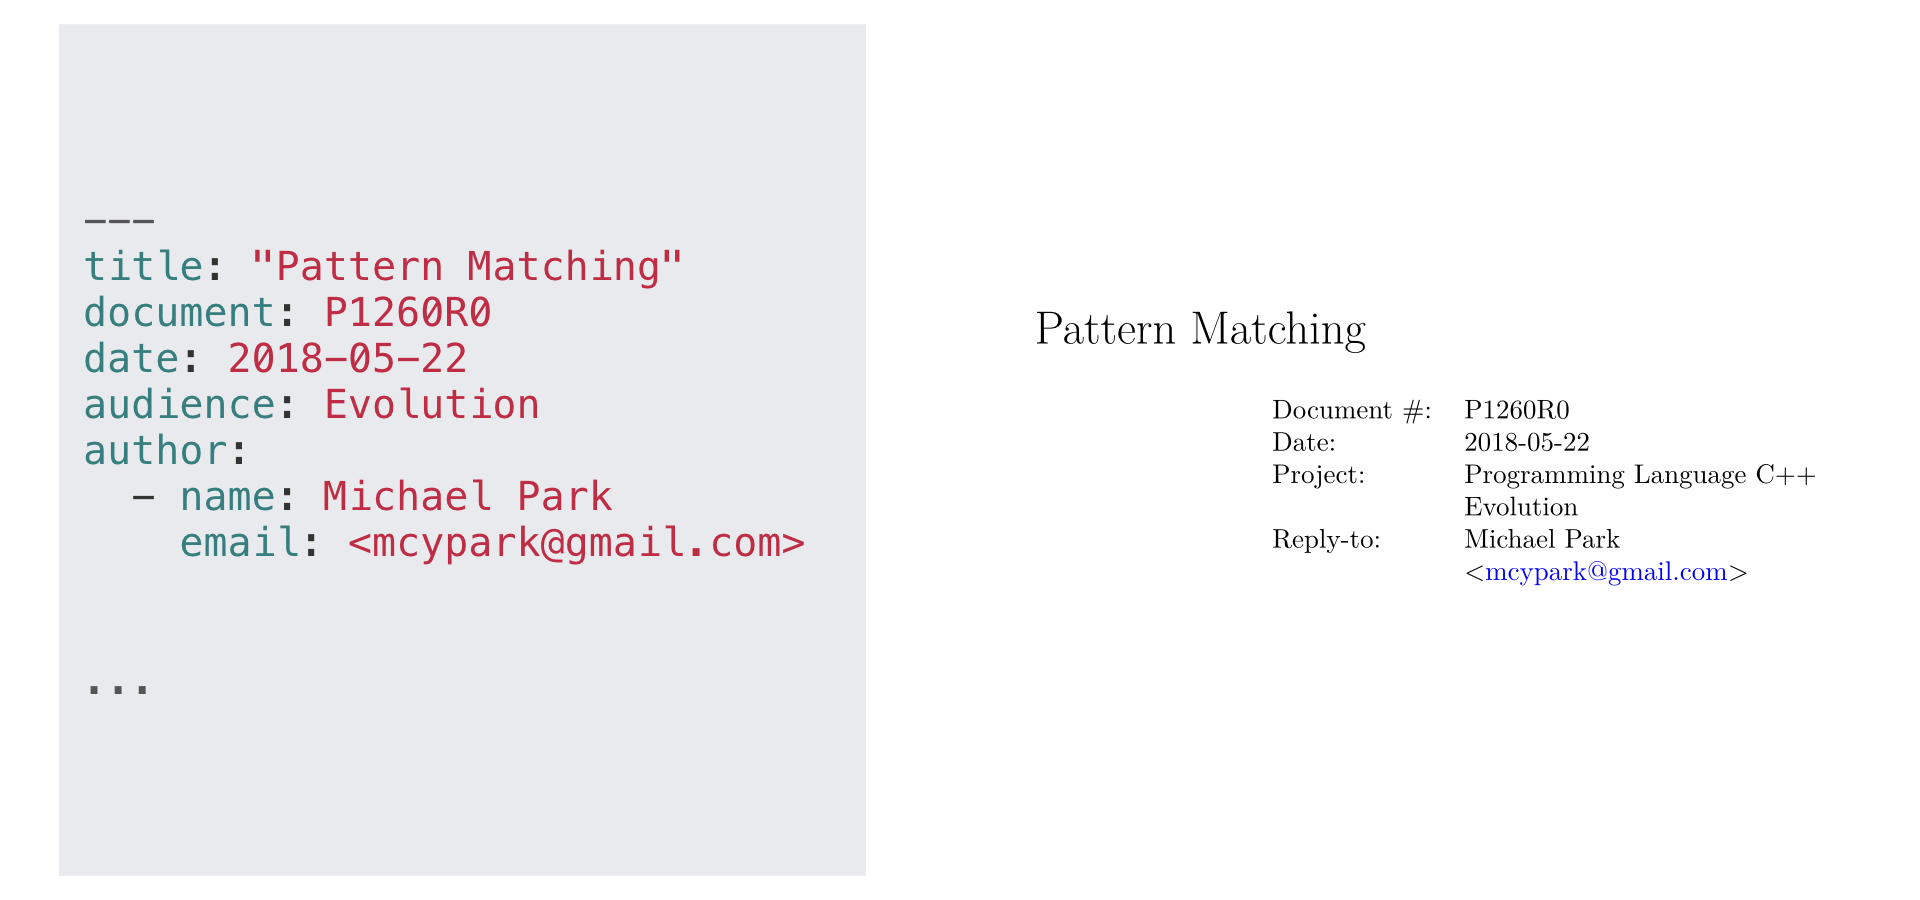
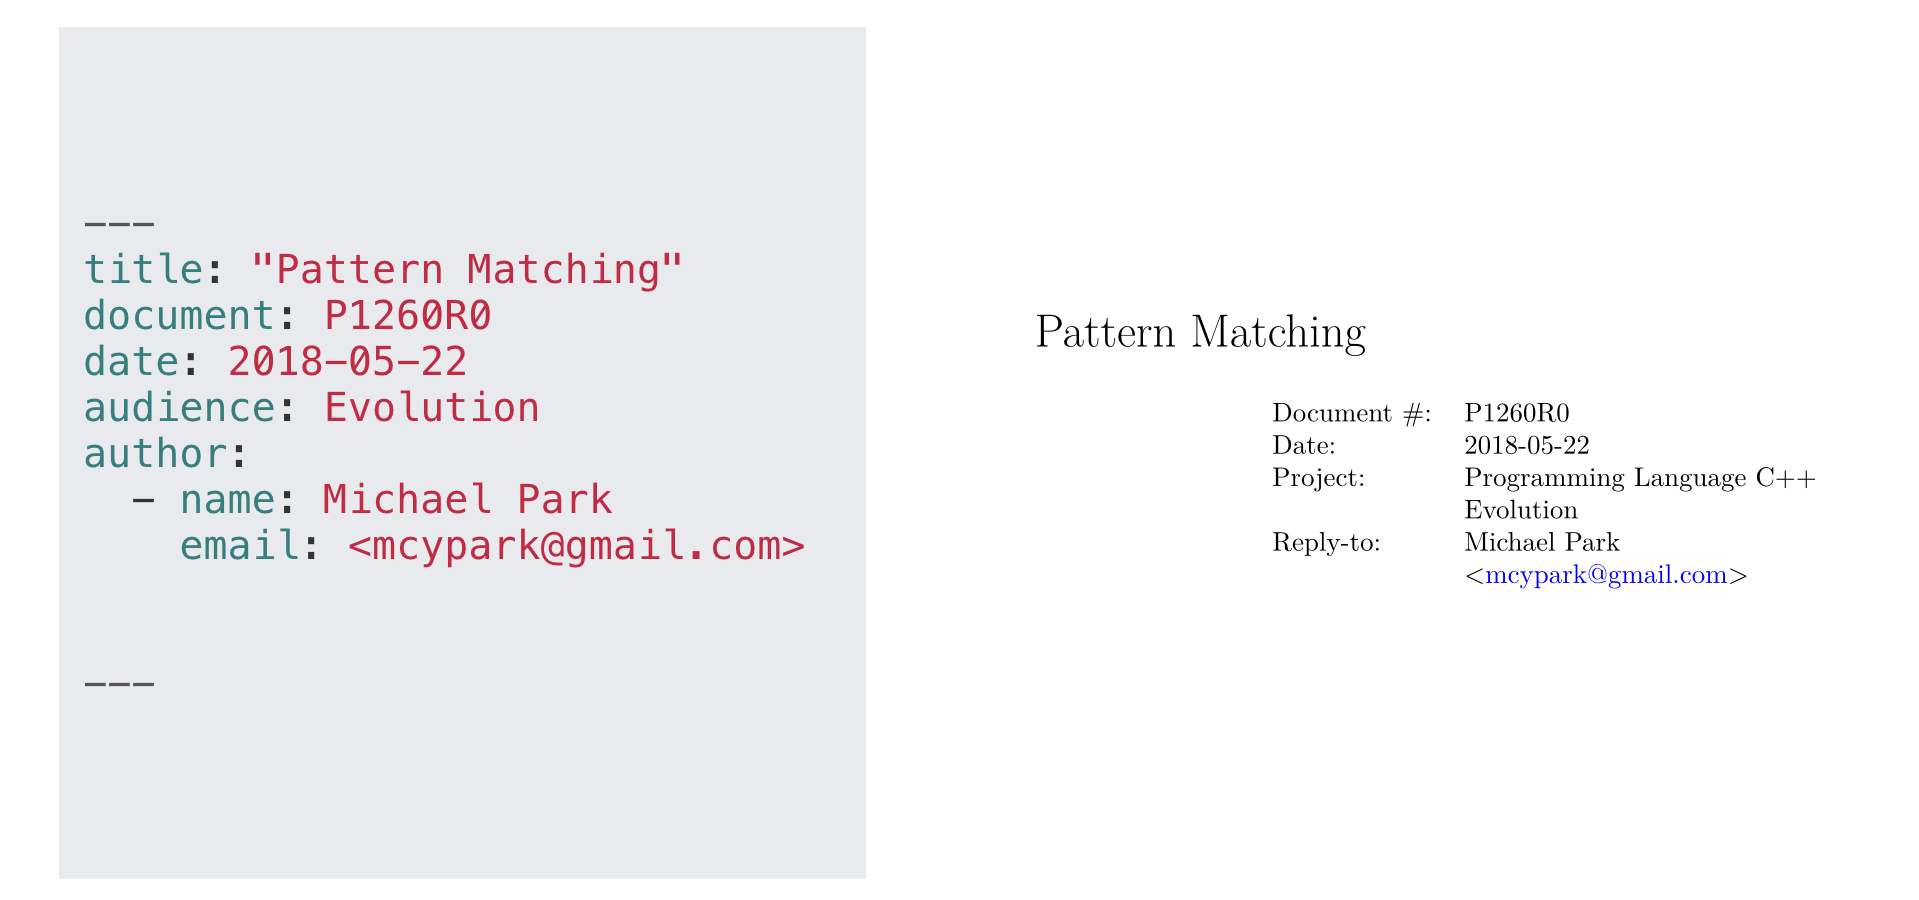
Reverted YAML ending in `...` to `---` since Github doesn't handle it properly.

diff --git a/README.md b/README.md
@@ -88,7 +88,7 @@ author:
     email: <dani@ngrt.de>
   - name: Howard E. Hinnant
     email: <howard.hinnant@gmail.com>
-...
+---
 ```
 
 ### Table of Contents
@@ -324,7 +324,7 @@ references:
       - family: Park
         given: Michael
     URL: https://github.com/mpark/patterns
-...
+---
 ```
 
 ![](img/manual-reference.png)

diff --git a/P1371R0.md b/P1371R0.md
@@ -14,7 +14,7 @@ author:
     email: <dsarginson@bloomberg.net>
 toc: true
 toc-depth: 4
-...
+---
 
 \pagebreak
 
@@ -1778,4 +1778,4 @@ references:
     citation-label : Swift Patterns
     title : "Swift Reference Manual - Patterns"
     URL: https://docs.swift.org/swift-book/ReferenceManual/Patterns.html
-...
+---

diff --git a/P0655R0.md b/P0655R0.md
@@ -9,7 +9,7 @@ author:
   - name: Agustín Bergé
     email: <agustinberge@gmail.com>
 toc: false
-...
+---
 
 # Introduction
 
@@ -160,4 +160,4 @@ references:
     issued:
       year: 2017
     URL: http://www.open-std.org/jtc1/sc22/wg21/docs/papers/2017/n4687.pdf
-...
+---

diff --git a/P0655R1.md b/P0655R1.md
@@ -9,7 +9,7 @@ author:
   - name: Agustín Bergé
     email: <agustinberge@gmail.com>
 toc: false
-...
+---
 
 # Introduction
 
@@ -173,4 +173,4 @@ references:
     issued:
       year: 2018
     URL: http://www.open-std.org/jtc1/sc22/wg21/docs/papers/2018/n4762.pdf
-...
+---

diff --git a/N3887.md b/N3887.md
@@ -7,7 +7,7 @@ author:
   - name: Michael Park
     email: <mcypark@gmail.com>
 toc: false
-...
+---
 
 # Introduction
 
@@ -203,4 +203,4 @@ references:
     issued:
       year: 2013
     URL: http://www.open-std.org/jtc1/sc22/wg21/docs/papers/2013/n3797.pdf
-...
+---

diff --git a/P1260R0.md b/P1260R0.md
@@ -7,7 +7,7 @@ author:
   - name: Michael Park
     email: <mcypark@gmail.com>
 toc: true
-...
+---
 
 # Introduction
 
@@ -1044,4 +1044,4 @@ references:
       - family: Bandela
         given: John
     URL: https://github.com/jbandela/simple_match
-...
+---

diff --git a/D1469R1.md b/D1469R1.md
@@ -14,7 +14,7 @@ author:
     email: <dsarginson@bloomberg.net>
 toc: true
 toc-depth: 4
-...
+---
 
 # Introduction
 
@@ -155,4 +155,4 @@ references:
       - family: Tomazos
         given: Andrew
     URL: http://www.tomazos.com/actcd16.pdf
-...
+---

diff --git a/P1469R0.md b/P1469R0.md
@@ -14,7 +14,7 @@ author:
     email: <dsarginson@bloomberg.net>
 toc: true
 toc-depth: 4
-...
+---
 
 # Introduction
 
@@ -119,4 +119,4 @@ references:
       - family: Tomazos
         given: Andrew
     URL: http://www.tomazos.com/actcd16.pdf
-...
+---
